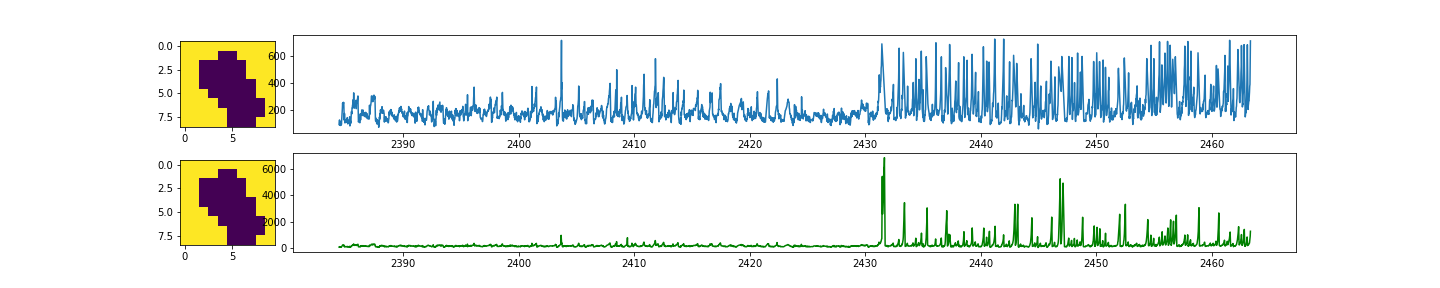
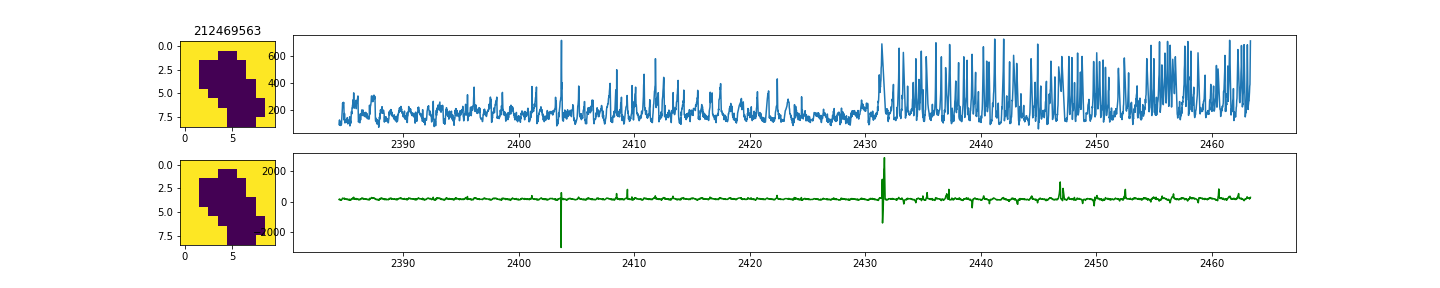
k2sc processed

diff --git a/css5.html b/css5.html
@@ -1,0 +1,133 @@
+</body>
+</html>
+
+<!DOCTYPE html>
+<html>
+<head>
+<style>
+img {
+    display: block;
+    margin-left: auto;
+    margin-right: auto;
+}
+
+h2,p {
+    text-align: center;
+}
+
+</style>
+</head>
+<body>
+<img src="ktwo212291374-c06_lpd-targ.fitsNUM_0_apertures_and_lightcurves.png>
+<img src="ktwo212291374-c06_lpd-targ.fitsNUM_1_apertures_and_lightcurves.png>
+<img src="ktwo212291374-c06_lpd-targ.fitsNUM_2_apertures_and_lightcurves.png>
+<img src="ktwo212291374-c06_lpd-targ.fitsNUM_3_apertures_and_lightcurves.png>
+<img src="ktwo212350320-c06_lpd-targ.fitsNUM_0_apertures_and_lightcurves.png>
+<img src="ktwo212359295-c06_lpd-targ.fitsNUM_0_apertures_and_lightcurves.png>
+<img src="ktwo212359295-c06_lpd-targ.fitsNUM_1_apertures_and_lightcurves.png>
+<img src="ktwo212359295-c06_lpd-targ.fitsNUM_2_apertures_and_lightcurves.png>
+<img src="ktwo212367422-c06_lpd-targ.fitsNUM_0_apertures_and_lightcurves.png>
+<img src="ktwo212367422-c06_lpd-targ.fitsNUM_1_apertures_and_lightcurves.png>
+<img src="ktwo212367422-c06_lpd-targ.fitsNUM_2_apertures_and_lightcurves.png>
+<img src="ktwo212412494-c06_lpd-targ.fitsNUM_0_apertures_and_lightcurves.png>
+<img src="ktwo212412494-c06_lpd-targ.fitsNUM_1_apertures_and_lightcurves.png>
+<img src="ktwo212412494-c06_lpd-targ.fitsNUM_2_apertures_and_lightcurves.png>
+<img src="ktwo212412494-c06_lpd-targ.fitsNUM_3_apertures_and_lightcurves.png>
+<img src="ktwo212417417-c06_lpd-targ.fitsNUM_0_apertures_and_lightcurves.png>
+<img src="ktwo212417417-c06_lpd-targ.fitsNUM_1_apertures_and_lightcurves.png>
+<img src="ktwo212417417-c06_lpd-targ.fitsNUM_2_apertures_and_lightcurves.png>
+<img src="ktwo212417417-c06_lpd-targ.fitsNUM_3_apertures_and_lightcurves.png>
+<img src="ktwo212425817-c06_lpd-targ.fitsNUM_0_apertures_and_lightcurves.png>
+<img src="ktwo212425817-c06_lpd-targ.fitsNUM_1_apertures_and_lightcurves.png>
+<img src="ktwo212425817-c06_lpd-targ.fitsNUM_2_apertures_and_lightcurves.png>
+<img src="ktwo212451472-c06_lpd-targ.fitsNUM_0_apertures_and_lightcurves.png>
+<img src="ktwo212451472-c06_lpd-targ.fitsNUM_1_apertures_and_lightcurves.png>
+<img src="ktwo212451472-c06_lpd-targ.fitsNUM_2_apertures_and_lightcurves.png>
+<img src="ktwo212451472-c06_lpd-targ.fitsNUM_3_apertures_and_lightcurves.png>
+<img src="ktwo212463159-c06_lpd-targ.fitsNUM_0_apertures_and_lightcurves.png>
+<img src="ktwo212463159-c06_lpd-targ.fitsNUM_1_apertures_and_lightcurves.png>
+<img src="ktwo212463159-c06_lpd-targ.fitsNUM_2_apertures_and_lightcurves.png>
+<img src="ktwo212463159-c06_lpd-targ.fitsNUM_3_apertures_and_lightcurves.png>
+<img src="ktwo212463213-c06_lpd-targ.fitsNUM_0_apertures_and_lightcurves.png>
+<img src="ktwo212463213-c06_lpd-targ.fitsNUM_1_apertures_and_lightcurves.png>
+<img src="ktwo212463213-c06_lpd-targ.fitsNUM_2_apertures_and_lightcurves.png>
+<img src="ktwo212469563-c06_lpd-targ.fitsNUM_0_apertures_and_lightcurves.png>
+<img src="ktwo212469563-c06_lpd-targ.fitsNUM_1_apertures_and_lightcurves.png>
+<img src="ktwo212469563-c06_lpd-targ.fitsNUM_2_apertures_and_lightcurves.png>
+<img src="ktwo212534342-c06_lpd-targ.fitsNUM_0_apertures_and_lightcurves.png>
+<img src="ktwo212534342-c06_lpd-targ.fitsNUM_1_apertures_and_lightcurves.png>
+<img src="ktwo212534342-c06_lpd-targ.fitsNUM_2_apertures_and_lightcurves.png>
+<img src="ktwo212540092-c06_lpd-targ.fitsNUM_0_apertures_and_lightcurves.png>
+<img src="ktwo212540092-c06_lpd-targ.fitsNUM_1_apertures_and_lightcurves.png>
+<img src="ktwo212540092-c06_lpd-targ.fitsNUM_2_apertures_and_lightcurves.png>
+<img src="ktwo212540092-c06_lpd-targ.fitsNUM_3_apertures_and_lightcurves.png>
+<img src="ktwo212571247-c06_lpd-targ.fitsNUM_0_apertures_and_lightcurves.png>
+<img src="ktwo212571247-c06_lpd-targ.fitsNUM_1_apertures_and_lightcurves.png>
+<img src="ktwo212571247-c06_lpd-targ.fitsNUM_2_apertures_and_lightcurves.png>
+<img src="ktwo212571247-c06_lpd-targ.fitsNUM_3_apertures_and_lightcurves.png>
+<img src="ktwo212597645-c06_lpd-targ.fitsNUM_0_apertures_and_lightcurves.png>
+<img src="ktwo212597645-c06_lpd-targ.fitsNUM_1_apertures_and_lightcurves.png>
+<img src="ktwo212597645-c06_lpd-targ.fitsNUM_2_apertures_and_lightcurves.png>
+<img src="ktwo212606890-c06_lpd-targ.fitsNUM_0_apertures_and_lightcurves.png>
+<img src="ktwo212606890-c06_lpd-targ.fitsNUM_1_apertures_and_lightcurves.png>
+<img src="ktwo212606890-c06_lpd-targ.fitsNUM_2_apertures_and_lightcurves.png>
+<img src="ktwo212612358-c06_lpd-targ.fitsNUM_0_apertures_and_lightcurves.png>
+<img src="ktwo212612358-c06_lpd-targ.fitsNUM_1_apertures_and_lightcurves.png>
+<img src="ktwo212612358-c06_lpd-targ.fitsNUM_2_apertures_and_lightcurves.png>
+<img src="ktwo212612358-c06_lpd-targ.fitsNUM_3_apertures_and_lightcurves.png>
+<img src="ktwo212634341-c06_lpd-targ.fitsNUM_0_apertures_and_lightcurves.png>
+<img src="ktwo212634341-c06_lpd-targ.fitsNUM_1_apertures_and_lightcurves.png>
+<img src="ktwo212634341-c06_lpd-targ.fitsNUM_2_apertures_and_lightcurves.png>
+<img src="ktwo212648408-c06_lpd-targ.fitsNUM_0_apertures_and_lightcurves.png>
+<img src="ktwo212648408-c06_lpd-targ.fitsNUM_1_apertures_and_lightcurves.png>
+<img src="ktwo212648408-c06_lpd-targ.fitsNUM_2_apertures_and_lightcurves.png>
+<img src="ktwo212699845-c06_lpd-targ.fitsNUM_0_apertures_and_lightcurves.png>
+<img src="ktwo212699845-c06_lpd-targ.fitsNUM_1_apertures_and_lightcurves.png>
+<img src="ktwo212699845-c06_lpd-targ.fitsNUM_2_apertures_and_lightcurves.png>
+<img src="ktwo212753920-c06_lpd-targ.fitsNUM_0_apertures_and_lightcurves.png>
+<img src="ktwo212753920-c06_lpd-targ.fitsNUM_1_apertures_and_lightcurves.png>
+<img src="ktwo212753920-c06_lpd-targ.fitsNUM_2_apertures_and_lightcurves.png>
+<img src="ktwo212753920-c06_lpd-targ.fitsNUM_3_apertures_and_lightcurves.png>
+<img src="ktwo212789652-c06_lpd-targ.fitsNUM_0_apertures_and_lightcurves.png>
+<img src="ktwo212789652-c06_lpd-targ.fitsNUM_1_apertures_and_lightcurves.png>
+<img src="ktwo212789652-c06_lpd-targ.fitsNUM_2_apertures_and_lightcurves.png>
+<img src="ktwo212789652-c06_lpd-targ.fitsNUM_3_apertures_and_lightcurves.png>
+<img src="ktwo212789652-c06_lpd-targ.fitsNUM_4_apertures_and_lightcurves.png>
+<img src="ktwo212802166-c06_lpd-targ.fitsNUM_0_apertures_and_lightcurves.png>
+<img src="ktwo212802166-c06_lpd-targ.fitsNUM_1_apertures_and_lightcurves.png>
+<img src="ktwo212802166-c06_lpd-targ.fitsNUM_2_apertures_and_lightcurves.png>
+<img src="ktwo212809223-c06_lpd-targ.fitsNUM_0_apertures_and_lightcurves.png>
+<img src="ktwo212809223-c06_lpd-targ.fitsNUM_1_apertures_and_lightcurves.png>
+<img src="ktwo212809223-c06_lpd-targ.fitsNUM_2_apertures_and_lightcurves.png>
+<img src="ktwo212809223-c06_lpd-targ.fitsNUM_3_apertures_and_lightcurves.png>
+<img src="ktwo212817187-c06_lpd-targ.fitsNUM_0_apertures_and_lightcurves.png>
+<img src="ktwo212817187-c06_lpd-targ.fitsNUM_1_apertures_and_lightcurves.png>
+<img src="ktwo212817187-c06_lpd-targ.fitsNUM_2_apertures_and_lightcurves.png>
+<img src="ktwo212833339-c06_lpd-targ.fitsNUM_0_apertures_and_lightcurves.png>
+<img src="ktwo212833339-c06_lpd-targ.fitsNUM_1_apertures_and_lightcurves.png>
+<img src="ktwo212833339-c06_lpd-targ.fitsNUM_2_apertures_and_lightcurves.png>
+<img src="ktwo212833339-c06_lpd-targ.fitsNUM_3_apertures_and_lightcurves.png>
+<img src="ktwo229228093-c06_lpd-targ.fitsNUM_0_apertures_and_lightcurves.png>
+<img src="ktwo229228093-c06_lpd-targ.fitsNUM_1_apertures_and_lightcurves.png>
+<img src="ktwo229228093-c06_lpd-targ.fitsNUM_2_apertures_and_lightcurves.png>
+<img src="ktwo229228093-c06_lpd-targ.fitsNUM_3_apertures_and_lightcurves.png>
+<img src="ktwo229228097-c06_lpd-targ.fitsNUM_0_apertures_and_lightcurves.png>
+<img src="ktwo229228097-c06_lpd-targ.fitsNUM_1_apertures_and_lightcurves.png>
+<img src="ktwo229228097-c06_lpd-targ.fitsNUM_2_apertures_and_lightcurves.png>
+<img src="ktwo229228097-c06_lpd-targ.fitsNUM_3_apertures_and_lightcurves.png>
+<img src="ktwo229228097-c06_lpd-targ.fitsNUM_4_apertures_and_lightcurves.png>
+<img src="ktwo229228099-c06_lpd-targ.fitsNUM_0_apertures_and_lightcurves.png>
+<img src="ktwo229228099-c06_lpd-targ.fitsNUM_1_apertures_and_lightcurves.png>
+<img src="ktwo229228099-c06_lpd-targ.fitsNUM_2_apertures_and_lightcurves.png>
+<img src="ktwo229228099-c06_lpd-targ.fitsNUM_3_apertures_and_lightcurves.png>
+<img src="ktwo229228106-c06_lpd-targ.fitsNUM_0_apertures_and_lightcurves.png>
+<img src="ktwo229228106-c06_lpd-targ.fitsNUM_1_apertures_and_lightcurves.png>
+<img src="ktwo229228106-c06_lpd-targ.fitsNUM_2_apertures_and_lightcurves.png>
+<img src="ktwo229228106-c06_lpd-targ.fitsNUM_3_apertures_and_lightcurves.png>
+<img src="ktwo229228116-c06_lpd-targ.fitsNUM_0_apertures_and_lightcurves.png>
+<img src="ktwo229228116-c06_lpd-targ.fitsNUM_1_apertures_and_lightcurves.png>
+<img src="ktwo229228116-c06_lpd-targ.fitsNUM_2_apertures_and_lightcurves.png>
+<img src="ktwo229228116-c06_lpd-targ.fitsNUM_3_apertures_and_lightcurves.png>
+</body>
+</html>
+
